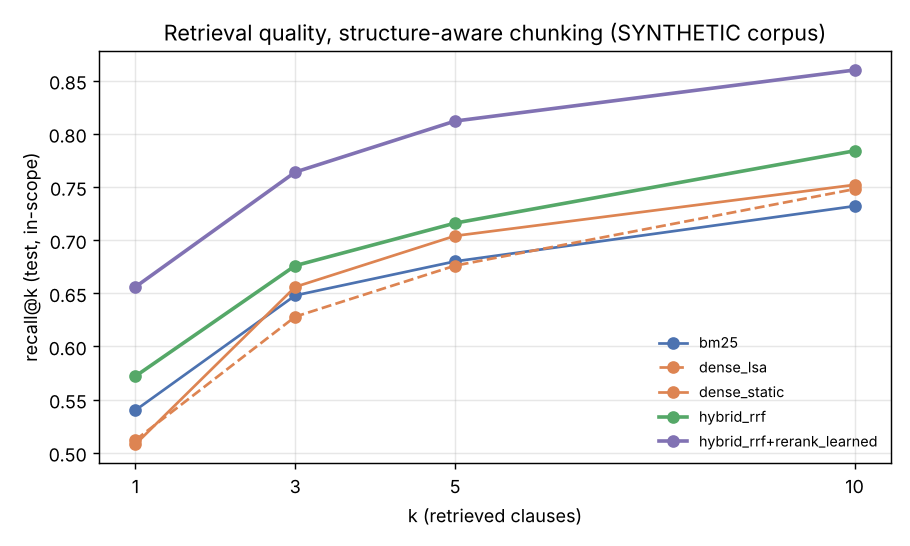
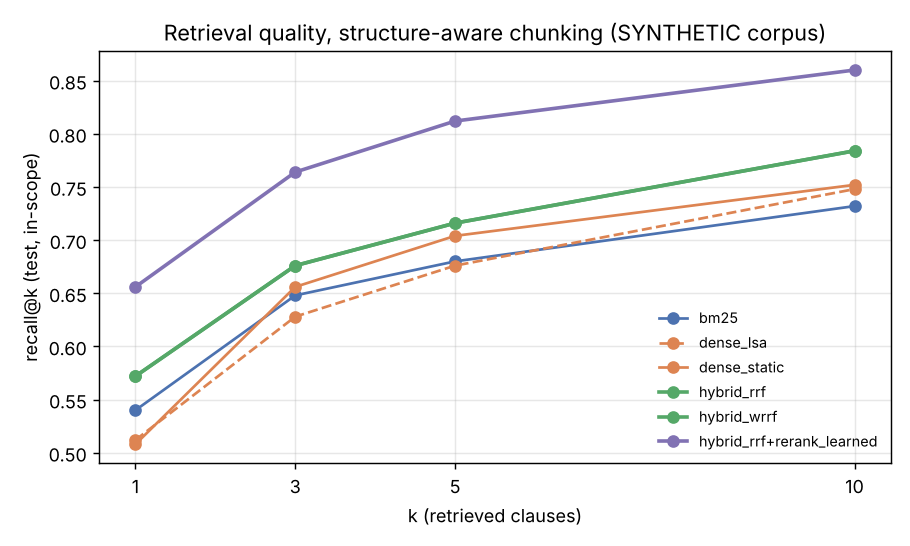
Day 21: add weighted RRF tuned on dev; fixed-size chunks now narrowly beat BM25

Changed region(s): [[0.7077, 0.6227, 0.8615, 0.7784], [0.7077, 0.5604, 0.8308, 0.5916]]

diff --git a/day-21-regulatory-rag-hybrid-search/src/regrag/pipeline.py b/day-21-regulatory-rag-hybrid-search/src/regrag/pipeline.py
@@ -22,6 +22,8 @@ from .retrieval import BM25Retriever, DenseRetriever, HybridRetriever
 
 KS = (1, 3, 5, 10)
 RRF_GRID = (10, 30, 60, 100)
+# Lexical share for weighted RRF (0.5 = plain RRF). Searched jointly with RRF_GRID, on dev only.
+WEIGHT_GRID = (0.2, 0.3, 0.4, 0.5, 0.6, 0.7, 0.8)
 
 
 def _metrics(ranked: list[list[str]], rel: list[set[str]]) -> dict[str, float]:
@@ -52,6 +54,19 @@ class Setup:
             if best is None or key > best[0]:
                 best = (key, k)
         self.rrf_k = best[1]
+        # Weighted RRF: tune (k, lexical weight) jointly on dev with the same key. Ties keep the plainer setting
+        # (weight closest to 0.5, then the earlier k), so a weight is only used when it actually helps on dev.
+        wbest = None
+        for k in RRF_GRID:
+            for w in WEIGHT_GRID:
+                h = HybridRetriever(self.bm25, self.dense, rrf_k=k, lexical_weight=w)
+                ranked = [[x.chunk_id for x in h.search(q.question, 10)] for q in dev]
+                m = _metrics(ranked, dev_rel)
+                key = (m["recall@5"], m["mrr@10"], -abs(w - 0.5))
+                if wbest is None or key > wbest[0]:
+                    wbest = (key, k, w)
+        self.wrrf_k, self.wrrf_weight = wbest[1], wbest[2]
+        self.hybrid_weighted = HybridRetriever(self.bm25, self.dense, rrf_k=self.wrrf_k, lexical_weight=self.wrrf_weight)
         self.hybrid = HybridRetriever(self.bm25, self.dense, rrf_k=self.rrf_k)
         self.hybrid_prf = HybridRetriever(self.bm25, self.dense, rrf_k=self.rrf_k, prf=True)
         self.reranker, self.reranker_name = make_reranker(chunks, self.bm25, self.dense, self.hybrid)
@@ -67,6 +82,7 @@ class Setup:
             "dense_lsa": lambda q: [h.chunk_id for h in self.lsa.search(q, 10)],
             f"dense_{self.dense.backend}": lambda q: [h.chunk_id for h in self.dense.search(q, 10)],
             "hybrid_rrf": lambda q: [h.chunk_id for h in self.hybrid.search(q, 10)],
+            "hybrid_wrrf": lambda q: [h.chunk_id for h in self.hybrid_weighted.search(q, 10)],
             "hybrid_rrf+prf": lambda q: [h.chunk_id for h in self.hybrid_prf.search(q, 10)],
             f"hybrid_rrf+rerank_{self.reranker_name}": lambda q: [s.chunk_id for s in self.reranker.rerank(q, 10)],
         }
@@ -131,6 +147,8 @@ def run(data_dir: Path, out_dir: Path, seed: int = 0, make_figures: bool = True)
             "n_chunks": len(chunks),
             "mean_chunk_words": round(float(np.mean([len(c.text.split()) for c in chunks])), 1),
             "rrf_k": st.rrf_k,
+            "wrrf_k": st.wrrf_k,
+            "wrrf_lexical_weight": st.wrrf_weight,
             "dense_backend": st.dense.backend,
             "reranker": st.reranker_name,
             "methods": {},
@@ -164,6 +182,10 @@ def run(data_dir: Path, out_dir: Path, seed: int = 0, make_figures: bool = True)
             "hybrid_beats_both": r["hybrid_rrf"]["recall@5"] > max(r["bm25"]["recall@5"], r[dname]["recall@5"]),
             "hybrid_minus_bm25": paired_bootstrap(per_q[cname]["hybrid_rrf"], per_q[cname]["bm25"], seed=seed),
             "hybrid_minus_dense": paired_bootstrap(per_q[cname]["hybrid_rrf"], per_q[cname][dname], seed=seed),
+            "weighted_hybrid_recall@5": r["hybrid_wrrf"]["recall@5"],
+            "weighted_hybrid_beats_both": r["hybrid_wrrf"]["recall@5"] > max(r["bm25"]["recall@5"], r[dname]["recall@5"]),
+            "weighted_hybrid_minus_bm25": paired_bootstrap(per_q[cname]["hybrid_wrrf"], per_q[cname]["bm25"], seed=seed),
+            "weighted_hybrid_minus_dense": paired_bootstrap(per_q[cname]["hybrid_wrrf"], per_q[cname][dname], seed=seed),
         }
     metrics["acceptance_hybrid_vs_single"] = acc
 

diff --git a/day-21-regulatory-rag-hybrid-search/src/regrag/retrieval.py b/day-21-regulatory-rag-hybrid-search/src/regrag/retrieval.py
@@ -203,13 +203,18 @@ def _top(ids: list[str], scores: np.ndarray, k: int) -> list[Hit]:
     return [Hit(ids[i], float(scores[i]), r) for r, i in enumerate(order)]
 
 
-def rrf(rankings: list[list[Hit]], k: int = 60, top: int = 50) -> list[Hit]:
-    """Reciprocal rank fusion: score(d) = sum_r 1 / (k + rank_r(d) + 1)."""
+def rrf(rankings: list[list[Hit]], k: int = 60, top: int = 50, weights: list[float] | None = None) -> list[Hit]:
+    """Reciprocal rank fusion: score(d) = sum_r w_r / (k + rank_r(d) + 1).
+
+    With ``weights=None`` every ranking gets weight 1 (plain RRF). Weighted RRF lets one retriever count for more.
+    """
+    if weights is None:
+        weights = [1.0] * len(rankings)
     agg: dict[str, float] = {}
     first_seen: dict[str, int] = {}
-    for ranking in rankings:
+    for w, ranking in zip(weights, rankings, strict=True):
         for h in ranking:
-            agg[h.chunk_id] = agg.get(h.chunk_id, 0.0) + 1.0 / (k + h.rank + 1)
+            agg[h.chunk_id] = agg.get(h.chunk_id, 0.0) + w / (k + h.rank + 1)
             first_seen.setdefault(h.chunk_id, len(first_seen))
     order = sorted(agg, key=lambda c: (-agg[c], first_seen[c]))[:top]
     return [Hit(c, agg[c], r) for r, c in enumerate(order)]
@@ -218,12 +223,24 @@ def rrf(rankings: list[list[Hit]], k: int = 60, top: int = 50) -> list[Hit]:
 class HybridRetriever:
     name = "hybrid"
 
-    def __init__(self, bm25: BM25Retriever, dense: DenseRetriever, rrf_k: int = 60, depth: int = 50, prf: bool = False) -> None:
+    def __init__(
+        self,
+        bm25: BM25Retriever,
+        dense: DenseRetriever,
+        rrf_k: int = 60,
+        depth: int = 50,
+        prf: bool = False,
+        lexical_weight: float = 0.5,
+    ) -> None:
         self.bm25, self.dense, self.rrf_k, self.depth, self.prf = bm25, dense, rrf_k, depth, prf
+        self.lexical_weight = lexical_weight  # 0.5 = plain RRF (equal weights); tuned on dev only
 
     def search(self, query: str, k: int = 50, extra_dense_text: str | None = None) -> list[Hit]:
         lex_q = self.bm25.expand_query(query) if self.prf else query
         rankings = [self.bm25.search(lex_q, self.depth), self.dense.search(query, self.depth)]
+        w_lex, w_dense = self.lexical_weight, 1.0 - self.lexical_weight
+        weights = [w_lex, w_dense]
         if extra_dense_text:  # HyDE: also search with the embedding of a hypothetical answer clause
             rankings.append(self.dense.search(extra_dense_text, self.depth))
-        return rrf(rankings, k=self.rrf_k, top=k)
+            weights.append(w_dense)
+        return rrf(rankings, k=self.rrf_k, top=k, weights=weights)

diff --git a/day-21-regulatory-rag-hybrid-search/tests/test_retrieval.py b/day-21-regulatory-rag-hybrid-search/tests/test_retrieval.py
@@ -40,3 +40,11 @@ def test_prf_expands_query(chunks):
     q = "civil penalty customer complaints"
     ex = bm.expand_query(q)
     assert ex[: len(tokenize(q))] == tokenize(q) and len(ex) > len(tokenize(q))
+
+
+def test_weighted_rrf_weights_shift_order():
+    a = [Hit("x", 1.0, 0), Hit("y", 0.5, 1)]
+    b = [Hit("y", 1.0, 0), Hit("x", 0.5, 1)]
+    assert rrf([a, b], k=10)[0].chunk_id == "x"  # tie broken by first seen
+    assert rrf([a, b], k=10, weights=[0.2, 0.8])[0].chunk_id == "y"
+    assert rrf([a, b], k=10, weights=[0.8, 0.2])[0].chunk_id == "x"

diff --git a/day-21-regulatory-rag-hybrid-search/results/report.md b/day-21-regulatory-rag-hybrid-search/results/report.md
@@ -6,25 +6,27 @@ Data path: `synthetic_generator` (Model Data Protection and Conduct Regulation (
 
 | method | recall@1 | recall@3 | recall@5 | recall@10 | mrr@10 | ndcg@10 | recall@5_lexical | recall@5_paraphrase | latency_ms_per_query |
 |---|---|---|---|---|---|---|---|---|---|
-| bm25 | 0.54 | 0.648 | 0.68 | 0.732 | 0.6002 | 0.6317 | 1.0 | 0.36 | 0.43 |
-| bm25+prf | 0.348 | 0.584 | 0.66 | 0.712 | 0.477 | 0.5346 | 0.976 | 0.344 | 1.12 |
-| dense_lsa | 0.512 | 0.628 | 0.676 | 0.748 | 0.5855 | 0.6244 | 1.0 | 0.352 | 0.8 |
+| bm25 | 0.54 | 0.648 | 0.68 | 0.732 | 0.6002 | 0.6317 | 1.0 | 0.36 | 0.31 |
+| bm25+prf | 0.348 | 0.584 | 0.66 | 0.712 | 0.477 | 0.5346 | 0.976 | 0.344 | 0.84 |
+| dense_lsa | 0.512 | 0.628 | 0.676 | 0.748 | 0.5855 | 0.6244 | 1.0 | 0.352 | 0.62 |
 | dense_static | 0.508 | 0.656 | 0.704 | 0.752 | 0.5927 | 0.6315 | 1.0 | 0.408 | 0.05 |
-| hybrid_rrf | 0.572 | 0.676 | 0.716 | 0.784 | 0.6368 | 0.6717 | 1.0 | 0.432 | 0.5 |
-| hybrid_rrf+prf | 0.484 | 0.68 | 0.704 | 0.784 | 0.5883 | 0.6357 | 1.0 | 0.408 | 1.14 |
-| hybrid_rrf+rerank_learned | 0.656 | 0.764 | 0.812 | 0.86 | 0.723 | 0.7562 | 1.0 | 0.624 | 2.86 |
+| hybrid_rrf | 0.572 | 0.676 | 0.716 | 0.784 | 0.6368 | 0.6717 | 1.0 | 0.432 | 0.44 |
+| hybrid_wrrf | 0.572 | 0.676 | 0.716 | 0.784 | 0.6368 | 0.6717 | 1.0 | 0.432 | 0.45 |
+| hybrid_rrf+prf | 0.484 | 0.68 | 0.704 | 0.784 | 0.5883 | 0.6357 | 1.0 | 0.408 | 0.96 |
+| hybrid_rrf+rerank_learned | 0.656 | 0.764 | 0.812 | 0.86 | 0.723 | 0.7562 | 1.0 | 0.624 | 2.25 |
 
 ## Retrieval, fixed chunking (257 chunks, mean 39.9 words, dense backend `static`, RRF k=30)
 
 | method | recall@1 | recall@3 | recall@5 | recall@10 | mrr@10 | ndcg@10 | recall@5_lexical | recall@5_paraphrase | latency_ms_per_query |
 |---|---|---|---|---|---|---|---|---|---|
-| bm25 | 0.416 | 0.6 | 0.652 | 0.716 | 0.5176 | 0.509 | 0.952 | 0.352 | 0.29 |
-| bm25+prf | 0.284 | 0.528 | 0.604 | 0.68 | 0.4229 | 0.4398 | 0.904 | 0.304 | 0.82 |
-| dense_lsa | 0.372 | 0.584 | 0.636 | 0.716 | 0.4885 | 0.4918 | 0.944 | 0.328 | 0.71 |
-| dense_static | 0.344 | 0.536 | 0.596 | 0.696 | 0.4564 | 0.4586 | 0.88 | 0.312 | 0.05 |
-| hybrid_rrf | 0.424 | 0.588 | 0.648 | 0.74 | 0.5233 | 0.5181 | 0.952 | 0.344 | 0.43 |
-| hybrid_rrf+prf | 0.364 | 0.596 | 0.668 | 0.72 | 0.495 | 0.499 | 0.968 | 0.368 | 1.03 |
-| hybrid_rrf+rerank_learned | 0.6 | 0.684 | 0.764 | 0.848 | 0.6645 | 0.6518 | 0.984 | 0.544 | 2.05 |
+| bm25 | 0.416 | 0.6 | 0.652 | 0.716 | 0.5176 | 0.509 | 0.952 | 0.352 | 0.3 |
+| bm25+prf | 0.284 | 0.528 | 0.604 | 0.68 | 0.4229 | 0.4398 | 0.904 | 0.304 | 0.81 |
+| dense_lsa | 0.372 | 0.584 | 0.636 | 0.716 | 0.4885 | 0.4918 | 0.944 | 0.328 | 0.65 |
+| dense_static | 0.344 | 0.536 | 0.596 | 0.696 | 0.4564 | 0.4586 | 0.88 | 0.312 | 0.06 |
+| hybrid_rrf | 0.424 | 0.588 | 0.648 | 0.74 | 0.5233 | 0.5181 | 0.952 | 0.344 | 0.47 |
+| hybrid_wrrf | 0.436 | 0.612 | 0.656 | 0.728 | 0.5324 | 0.5236 | 0.96 | 0.352 | 0.45 |
+| hybrid_rrf+prf | 0.364 | 0.596 | 0.668 | 0.72 | 0.495 | 0.499 | 0.968 | 0.368 | 1.22 |
+| hybrid_rrf+rerank_learned | 0.6 | 0.684 | 0.764 | 0.848 | 0.6645 | 0.6518 | 0.984 | 0.544 | 2.12 |
 
 ## Hybrid vs single methods (recall@5, paired bootstrap 95% CI)
 

diff --git a/day-21-regulatory-rag-hybrid-search/README.md b/day-21-regulatory-rag-hybrid-search/README.md
@@ -98,6 +98,9 @@ Test split: 250 in-scope questions (125 lexical, 125 paraphrased) and 24 out-of-
 |---|---|---|---|---|---|---|
 | structure-aware | 0.716 | 0.680 | 0.704 | **yes** | +0.036 [+0.004, +0.072] | +0.012 [-0.012, +0.036] |
 | fixed-size | 0.648 | 0.652 | 0.596 | **no** | -0.004 [-0.036, +0.028] | +0.052 [+0.020, +0.084] |
+| fixed-size, weighted RRF | 0.656 | 0.652 | 0.596 | **yes, narrowly** | +0.004 [-0.008, +0.016] | +0.060 [+0.016, +0.100] |
+
+Weighted RRF tunes the lexical share of the fusion together with the RRF constant, on dev only (grid 0.2-0.8, ties go to plain RRF). On structure-aware chunks dev picked plain RRF (weight 0.5), so its test numbers are unchanged. On fixed-size chunks dev picked lexical weight 0.8 with k = 30.
 
 **Chunking.** With the same pipeline, structure-aware chunks beat fixed windows at every stage. Hybrid recall@5 is 0.716 vs 0.648, and with the re-ranker 0.812 vs 0.764. Fixed windows also cost answer quality: citation precision 0.718 vs 0.833, and accuracy on answered questions 0.808 vs 0.866.
 
@@ -146,9 +149,9 @@ Test split: 250 in-scope questions (125 lexical, 125 paraphrased) and 24 out-of-
 
 - **Acceptance criterion "hybrid beats both single methods on recall@5":**
   - **Met for the production configuration (structure-aware chunks).** Hybrid scores 0.716 vs 0.704 dense and 0.680 BM25, but the margin over dense is not statistically significant (95% CI −0.012 to +0.036).
-  - **Not met with fixed-size chunks.** Hybrid 0.648 is just below BM25 at 0.652, within noise.
+  - **Fixed-size chunks: met only narrowly with weighted fusion.** Plain RRF scores 0.648, just below BM25 at 0.652. Weighted RRF (added in a follow-up, tuned on dev only) scores 0.656, but the margin over BM25 is one question in 250 and not significant (95% CI −0.008 to +0.016). Dev chose a lexical weight of 0.8, the edge of the grid, so on fixed windows the fused ranking is mostly BM25.
 
-  The RRF constant was the only fusion setting tuned, and only on dev. Weighted fusion was not tried.
+  Plain RRF tuned only the RRF constant. Weighted RRF tunes the constant and the lexical weight, both on dev; the test split was not used for either.
 - **No live LLM run.** No API key was available, so Claude answer quality, cost, latency and HyDE are unmeasured. The extractive fallback copies clause text, so its 100% faithfulness is by construction. The checker's value is shown by the stress test, not by that number.
 - **Synthetic, templated corpus.**
   - **Patterns.** Questions and clauses follow a limited number of templates, so absolute scores will not transfer to real regulations.
